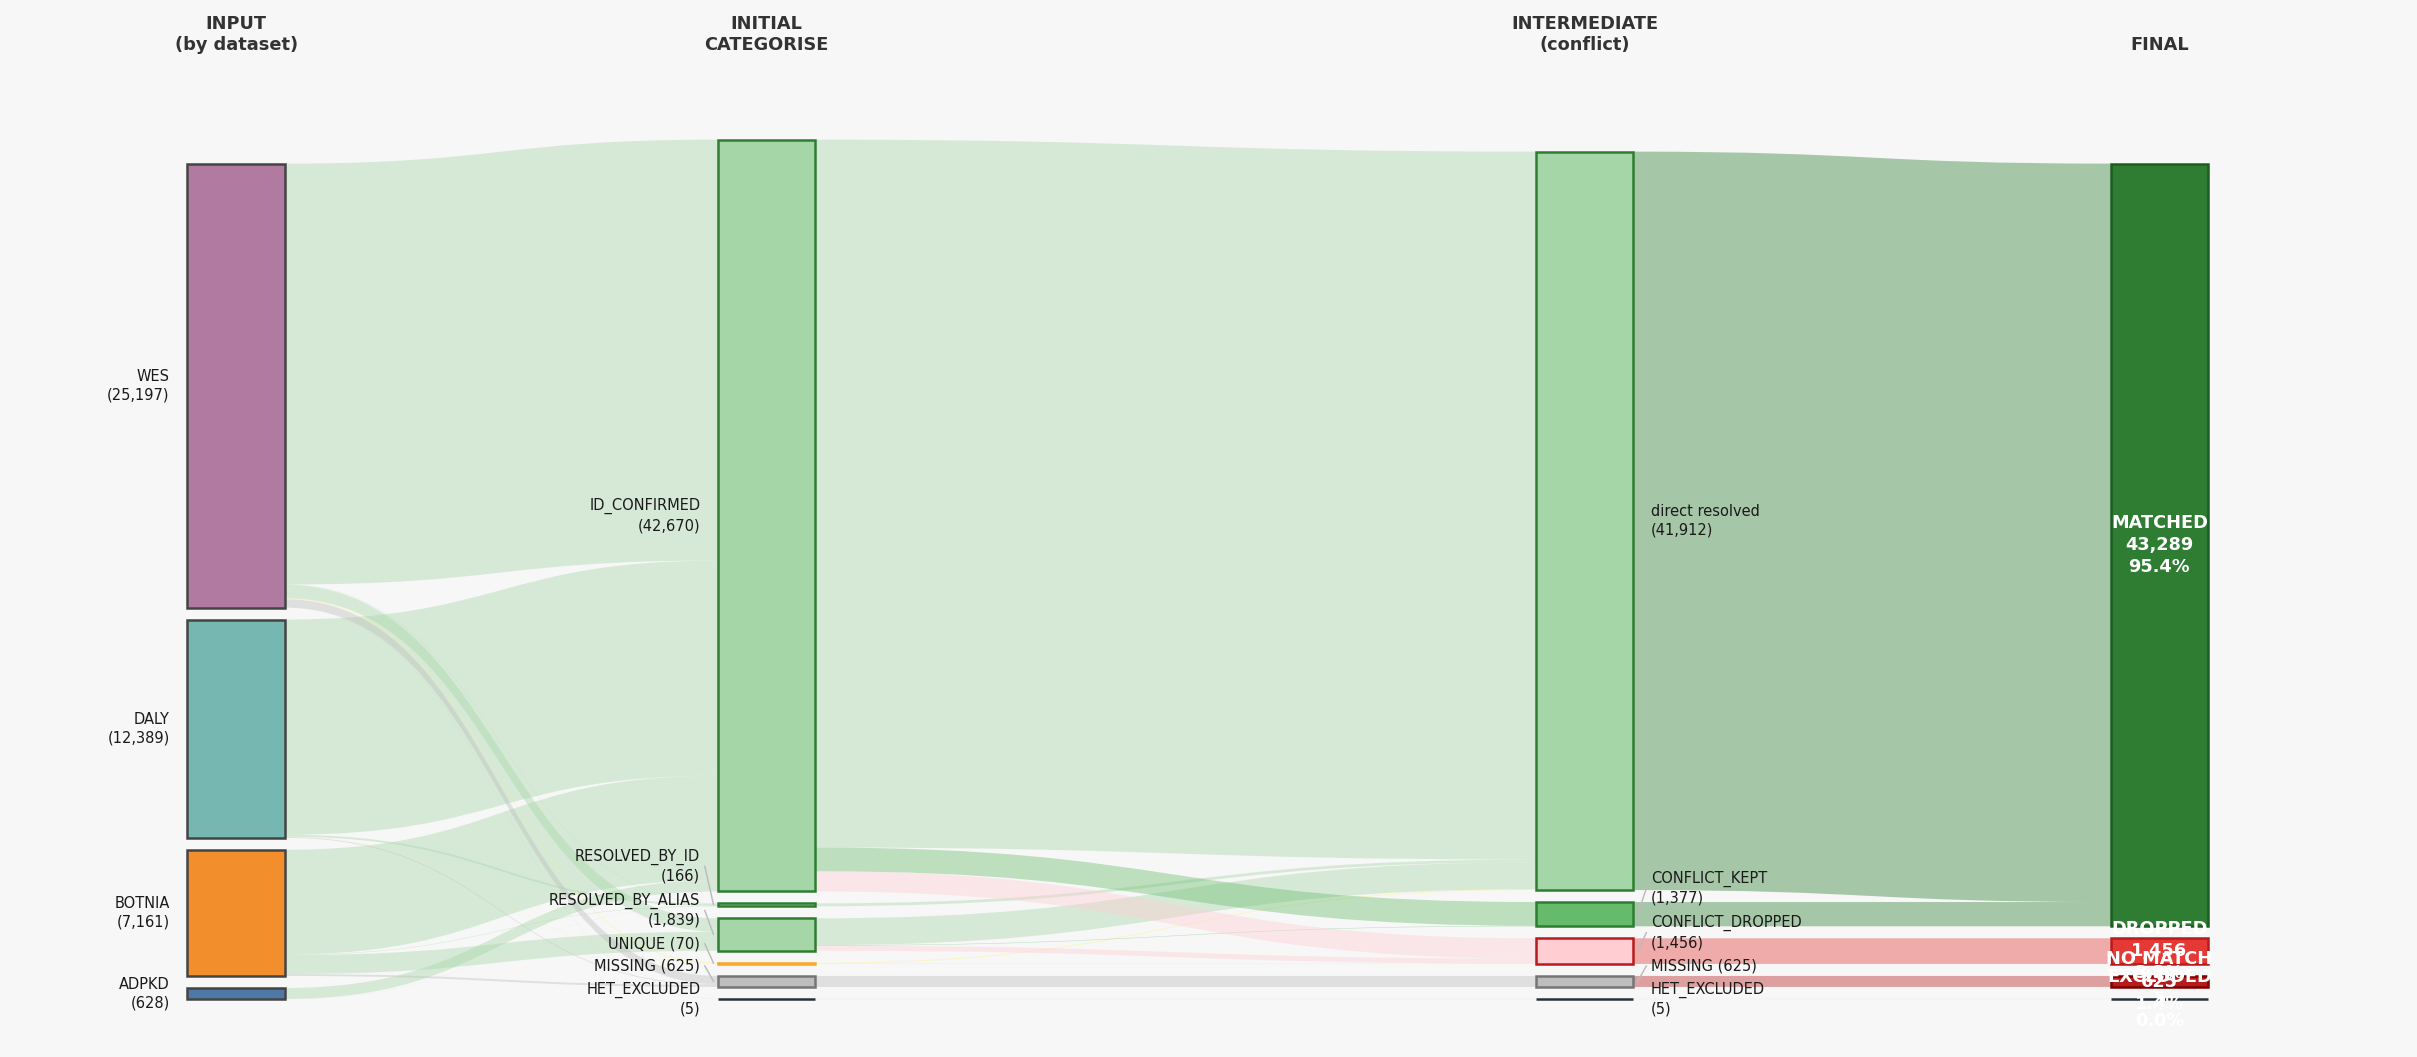
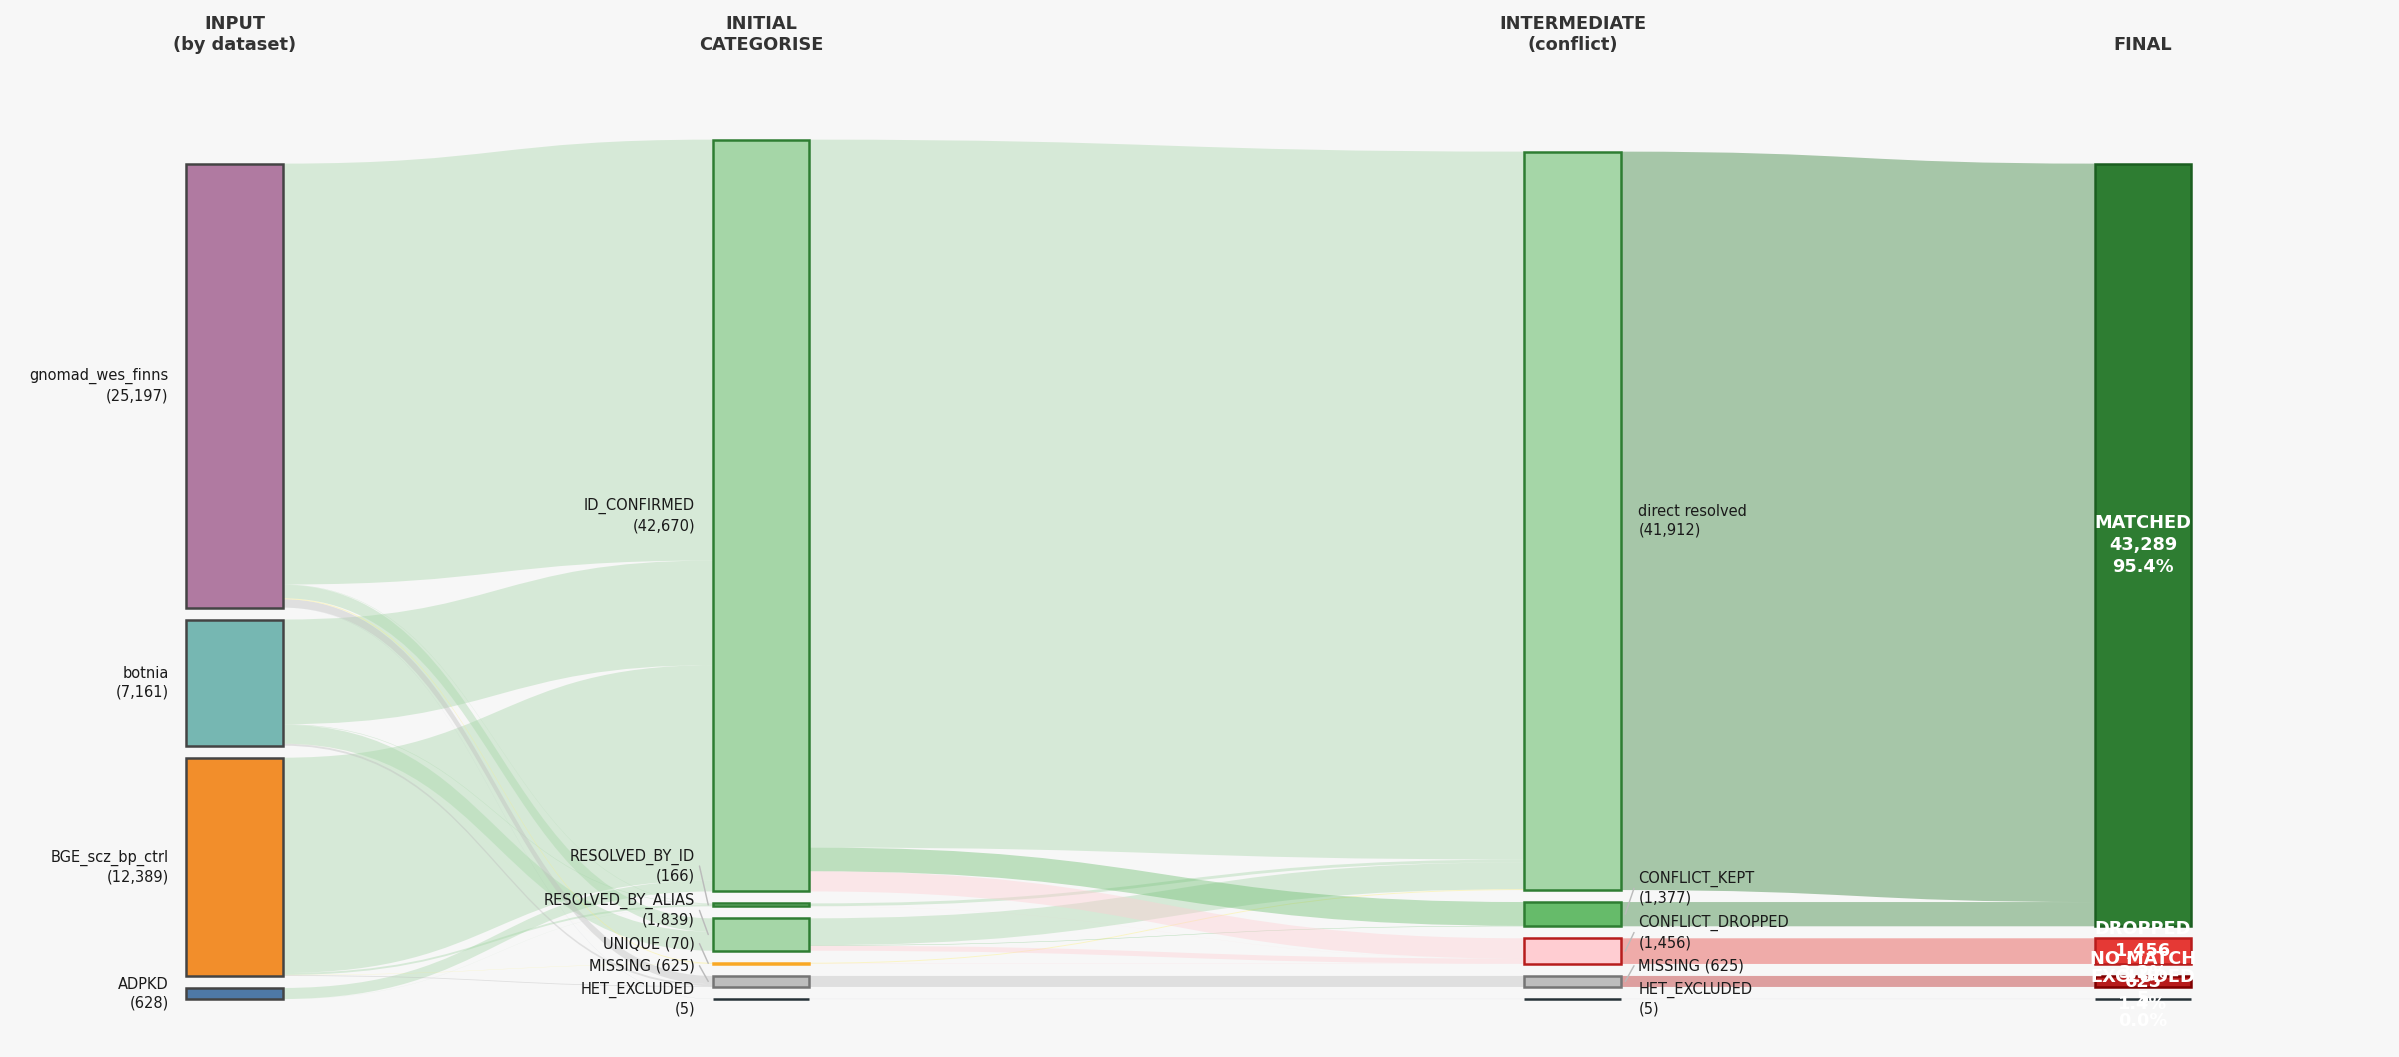
fixed bug in reporting and in renaming structure of samples

diff --git a/data/finngen_R14_exome_id_mapping_stats.md b/data/finngen_R14_exome_id_mapping_stats.md
@@ -1,22 +1,22 @@
 ## Mapping Totals
 
-| GROUP | TOTAL | ADPKD | BOTNIA | DALY | WES | PCT | NOTES |
+| GROUP | TOTAL | ADPKD | BGE_scz_bp_ctrl | botnia | gnomad_wes_finns | PCT | NOTES |
 | --- | --- | --- | --- | --- | --- | --- | --- |
-| MATCHED | 43289 | 618 | 7029 | 12223 | 23419 | 95.4% | samples with a final QRY→REF mapping in the output |
-| DROPPED | 1456 | 10 | 22 | 119 | 1305 | 3.2% | found by KING but excluded from final mapping |
-| NO MATCH | 625 | 0 | 110 | 47 | 468 | 1.4% | absent from ref or below KING concordance threshold |
+| MATCHED | 43289 | 618 | 12223 | 7029 | 23419 | 95.4% | samples with a final QRY→REF mapping in the output |
+| DROPPED | 1456 | 10 | 119 | 22 | 1305 | 3.2% | found by KING but excluded from final mapping |
+| NO MATCH | 625 | 0 | 47 | 110 | 468 | 1.4% | absent from ref or below KING concordance threshold |
 | EXCLUDED | 5 | 0 | 0 | 0 | 5 | 0.0% | removed before KING due to sample-level QC failure |
-| TOTAL | 45375 | 628 | 7161 | 12389 | 25197 | 100.0% |  |
+| TOTAL | 45375 | 628 | 12389 | 7161 | 25197 | 100.0% |  |
 
 ## Mapping Breakdown
 
-| GROUP | STATUS | TOTAL | ADPKD | BOTNIA | DALY | WES | PCT | NOTES |
+| GROUP | STATUS | TOTAL | ADPKD | BGE_scz_bp_ctrl | botnia | gnomad_wes_finns | PCT | NOTES |
 | --- | --- | --- | --- | --- | --- | --- | --- | --- |
-| MATCHED | ID_CONFIRMED | 40177 | 600 | 5936 | 11806 | 21835 | 88.5% | single candidate; KING match confirmed by matching IDs |
-| MATCHED | RESOLVED_BY_ID | 160 | 6 | 31 | 102 | 21 | 0.4% | twins in ref; query ID matched one candidate |
-| MATCHED | RESOLVED_BY_ALIAS | 1523 | 0 | 1053 | 0 | 470 | 3.4% | twins in ref; candidates are known aliases of each other |
-| MATCHED | UNIQUE | 52 | 0 | 2 | 11 | 39 | 0.1% | single candidate; matched by genetics only |
-| MATCHED | CONFLICT_KEPT | 1377 | 12 | 7 | 304 | 1054 | 3.0% | contested ref ID; kept after priority tiebreak; 1377 ref IDs contested, avg 31.4 queries/ref |
-| DROPPED | CONFLICT_DROPPED | 1456 | 10 | 22 | 119 | 1305 | 3.2% | contested ref ID; lost tiebreak; REF_MAPPED = NA |
-| NO MATCH | MISSING | 625 | 0 | 110 | 47 | 468 | 1.4% | no KING match found |
+| MATCHED | ID_CONFIRMED | 40177 | 600 | 11806 | 5936 | 21835 | 88.5% | single candidate; KING match confirmed by matching IDs |
+| MATCHED | RESOLVED_BY_ID | 160 | 6 | 102 | 31 | 21 | 0.4% | twins in ref; query ID matched one candidate |
+| MATCHED | RESOLVED_BY_ALIAS | 1523 | 0 | 0 | 1053 | 470 | 3.4% | twins in ref; candidates are known aliases of each other |
+| MATCHED | UNIQUE | 52 | 0 | 11 | 2 | 39 | 0.1% | single candidate; matched by genetics only |
+| MATCHED | CONFLICT_KEPT | 1377 | 12 | 304 | 7 | 1054 | 3.0% | contested ref ID; kept after priority tiebreak; 1377 ref IDs contested, avg 31.4 queries/ref |
+| DROPPED | CONFLICT_DROPPED | 1456 | 10 | 119 | 22 | 1305 | 3.2% | contested ref ID; lost tiebreak; REF_MAPPED = NA |
+| NO MATCH | MISSING | 625 | 0 | 47 | 110 | 468 | 1.4% | no KING match found |
 | EXCLUDED | HET_EXCLUDED | 5 | 0 | 0 | 0 | 5 | 0.0% | excluded by heterozygosity filter (F > 0.3) prior to KING |
